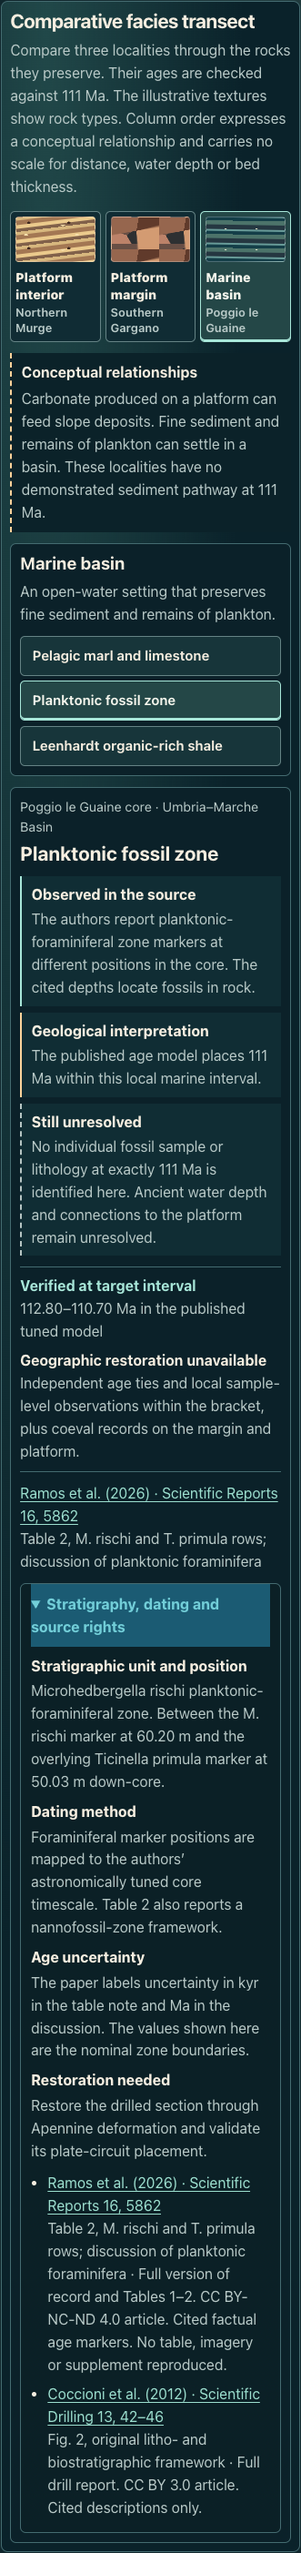
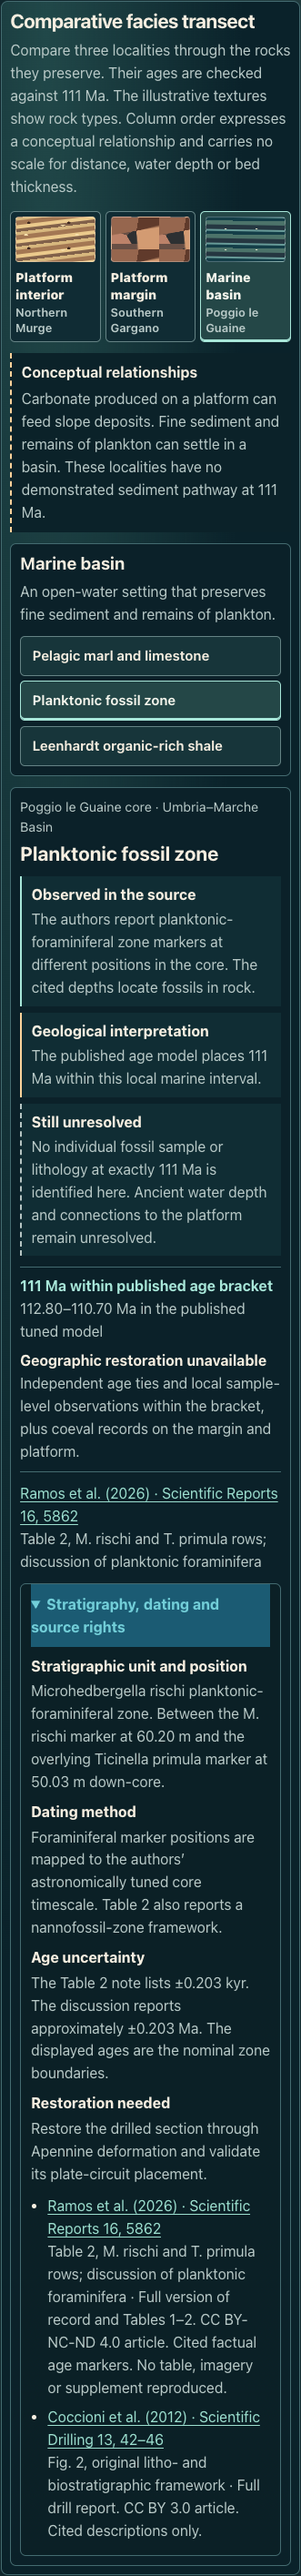
Clarify the 111 Ma published age bracket

Changed region(s): [[0.0302, 0.0, 0.9668, 0.9922], [0.8459, 0.6821, 0.8761, 0.7131]]

diff --git a/src/features/deep-time/tethys/transect/evidence.ts b/src/features/deep-time/tethys/transect/evidence.ts
@@ -247,7 +247,7 @@ export const transectEvidence: readonly TransectRecord[] = [
     age: {
       basis: 'bracket', range: { youngerMa: 110.70, olderMa: 112.80 }, label: '112.80–110.70 Ma in the published tuned model',
       method: 'Foraminiferal marker positions are mapped to the authors’ astronomically tuned core timescale. Table 2 also reports a nannofossil-zone framework.',
-      uncertainty: 'The paper labels uncertainty in kyr in the table note and Ma in the discussion. The values shown here are the nominal zone boundaries.',
+      uncertainty: 'The Table 2 note lists ±0.203 kyr. The discussion reports approximately ±0.203 Ma. The displayed ages are the nominal zone boundaries.',
     },
     observed: 'The authors report planktonic-foraminiferal zone markers at different positions in the core. The cited depths locate fossils in rock.',
     interpreted: 'The published age model places 111 Ma within this local marine interval.',

diff --git a/src/features/deep-time/tethys/transect/model.ts b/src/features/deep-time/tethys/transect/model.ts
@@ -3,7 +3,7 @@ import { initialInspection, inspect, type Inspection, type SeawayAction } from '
 import { targetMa, transectEvidence, type ReportedAge, type TransectRecord } from './evidence.ts';
 
 export const coverageLabels = {
-  verified: 'Verified at target interval',
+  verified: '111 Ma within published age bracket',
   broad: 'Broadly age-compatible',
   outside: 'Outside target interval',
   unresolved: 'Unresolved',

diff --git a/docs/STRATA-014-TRANSECT.md b/docs/STRATA-014-TRANSECT.md
@@ -43,10 +43,10 @@ The [typed register](../src/features/deep-time/tethys/transect/evidence.ts) link
 | Platform margin | Mattinata channels, graded megabreccias and fault drapes | Broadly age-compatible | Broad Lower Cretaceous setting. The guide’s late Albian date for its Fig. 72 locality applies to that example |
 | Platform margin | Younger of two drowning unconformities | Outside target interval | The published relative date is late early Aptian |
 | Marine basin | Poggio le Guaine pelagic marl and limestone | Broadly age-compatible | Recurrent lithologies in the core with no selected marl bed tied to exactly 111 Ma |
-| Marine basin | Poggio le Guaine planktonic-foraminiferal zone | Verified at target interval | The published tuned model brackets 111 Ma between nominal boundaries at 112.80 and 110.70 Ma |
+| Marine basin | Poggio le Guaine planktonic-foraminiferal zone | 111 Ma within published age bracket | The published tuned model brackets 111 Ma between nominal boundaries at 112.80 and 110.70 Ma |
 | Marine basin | Leenhardt organic-rich shale | Outside target interval | Both alternatives in the 2024 source put this bed before the snapshot |
 
-The basin age gate uses the published *Microhedbergella rischi* marker at **60.20 m down-core, 112.80 Ma** and the *Ticinella primula* marker at **50.03 m down-core, 110.70 Ma**, in Ramos et al. (2026), Table 2. These are model-derived age bounds on a local stratigraphic interval. The paper gives uncertainty in kyr in a table note and in Ma in the discussion. The lab shows the nominal bounds and discloses the unit discrepancy. It does not calculate a 111 Ma core depth, assign a bed at that age or extend the bracket to the platform and margin. [2026 source, Table 2 and discussion](https://pmc.ncbi.nlm.nih.gov/articles/PMC12894972/)
+The basin age gate uses the published *Microhedbergella rischi* marker at **60.20 m down-core, 112.80 Ma** and the *Ticinella primula* marker at **50.03 m down-core, 110.70 Ma**, in Ramos et al. (2026), Table 2. These are model-derived age bounds on a local stratigraphic interval. The Table 2 note lists **±0.203 kyr**. The discussion reports approximately **±0.203 Ma**. The lab shows the nominal bounds and discloses the unit discrepancy. It does not calculate a 111 Ma core depth, assign a bed at that age or extend the bracket to the platform and margin. [2026 source, Table 2 and discussion](https://pmc.ncbi.nlm.nih.gov/articles/PMC12894972/)
 
 For Leenhardt, the 2024 conclusions report **111.28 ± 0.12 Ma** and Table 3 reports **111.40–111.44 Ma**. The 2026 Table 1 lists **111.40–111.44 Ma** for the interval at **52.97–53.26 m down-core**. Both 2024 alternatives fall on the older side of 111 Ma. The discrepancy remains open. None of these core depths describes water depth. [2024 source, Table 3 and conclusions](https://doi.org/10.1029/2024PA004860) · [2026 source, Table 1](https://pmc.ncbi.nlm.nih.gov/articles/PMC12894972/)
 
